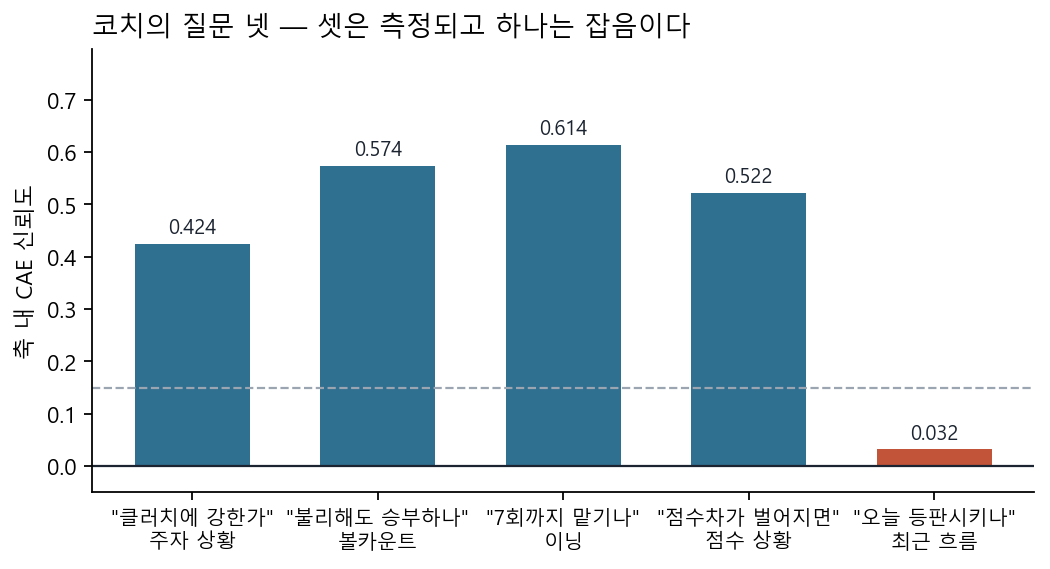
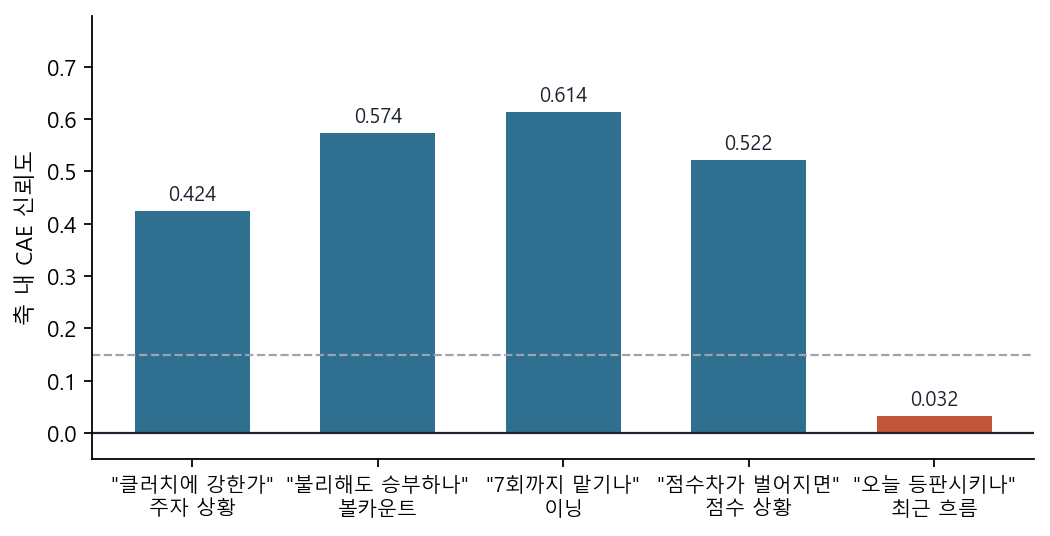
deck: fix a stale cross-reference and three readability snags
14장을 처음부터 끝까지 눈으로 훑고 나온 것들이다.

  3쪽  "이유는 다음 장에 있다" -> 순서를 바꾸면서 다음 장이 파이프라인이 됐다.
       그 이유(홀드아웃을 못 믿는다)는 5쪽이므로 명시적으로 가리킨다
  7쪽  13쪽의 상호참조가 "6쪽" 이었다 -> 7쪽
  10쪽 같은 화면에 폭 숫자가 둘이었다 — 그림 안 38.5(최대-최소),
       캡션 16.6(상위10%-하위10%). 그림 쪽을 캡션과 같은 정의로 통일했다.
       최대-최소는 극단값 두 개에 좌우돼 분포를 대표하지 못한다
  12·13쪽 그림 제목이 슬라이드 헤드라인과 거의 같은 문장이었다 -> 그림 제목 제거
  13쪽 그림이 작아 아래가 크게 비었다 -> 그림 열을 넓혔다
  4쪽  표 첫 열이 좁아 '전처리'/'지시자'가 두 줄로 깨졌다 -> 폭 고정

14장 전부 720px 안에 들어감을 재확인했다.

diff --git a/deck/index.html b/deck/index.html
@@ -158,7 +158,7 @@ addEventListener("DOMContentLoaded",function(){
         <b>상위권 전체가 1% 대의 좁은 띠 안</b>에 들어 있다.
         베이스라인 대비 2.1배를 올렸지만 컷까지는 2.0% 가 모자랐다.<br><br>
         총 <b>48회</b> 제출했고, 모든 채택 판단은 리더보드 실측으로만 했다.
-        홀드아웃 수치로 채택한 적은 한 번도 없다 — 이유는 다음 장에 있다.</p>
+        홀드아웃 수치로 채택한 적은 한 번도 없다 — 이유는 <b>5쪽</b>에 있다.</p>
     </div>
   </div>
   <div class="foot"><span>제구력은 하나의 숫자가 아니다</span><span>3 / 14</span></div>
@@ -171,7 +171,7 @@ addEventListener("DOMContentLoaded",function(){
   <div class="body cols c25" style="margin-top:6px">
     <div>
       <table>
-        <tr><th>단계</th><th>내용</th></tr>
+        <tr><th style="width:78px">단계</th><th>내용</th></tr>
         <tr><td>입력</td><td>train 1,475,092행 x 49컬럼<br>
             <span style="color:var(--mute)">+ 트랙맨 1,793,078행 (투수 매핑 재구축본)</span></td></tr>
         <tr><td>전처리</td><td><span class="num">step1~18</span> 파생 ·
@@ -425,9 +425,8 @@ addEventListener("DOMContentLoaded",function(){
     </div>
     <figure>
       <img src="fig/1_distribution.png" alt="2024 CAE 분포">
-      <figcaption>2024년 100구 이상 투수 297명. 표준편차가 투구 100개당
-        <b>7.0개</b>이고, 상위 10%와 하위 10%의 차이가 <b>16.6개</b>다.
-        기대값은 홀드아웃
+      <figcaption>2024년 100구 이상 투수 297명. 상위 10%와 하위 10%의 차이가
+        투구 100개당 <b>16.6개</b>다. 기대값은 홀드아웃
         (<span class="num">~2023</span> 학습 → <span class="num">2024</span> 예측)
         에서만 만들었다 — 그 시즌을 학습에 넣으면 암기로 분산이 부풀기 때문이다.</figcaption>
     </figure>
@@ -505,8 +504,8 @@ addEventListener("DOMContentLoaded",function(){
 <section class="slide">
   <div class="eyebrow">지표의 두 번째 축</div>
   <h2>“얼마나” 가 아니라 “어떻게” 실패하나</h2>
-  <p class="sub">복원한 라벨(6쪽)을 쓰면 하나의 성공률로는 절대 보이지 않는 것이 나온다.</p>
-  <div class="body cols c25">
+  <p class="sub">복원한 라벨(7쪽)을 쓰면 하나의 성공률로는 절대 보이지 않는 것이 나온다.</p>
+  <div class="body cols c52">
     <figure><img src="fig/5_failure_profile.png" alt="실패 유형 신뢰도"></figure>
     <div>
       <p class="note">

diff --git a/tools/cae_fig.py b/tools/cae_fig.py
@@ -52,8 +52,8 @@ ax.set_xlabel('CAE (투구 100개당 추가 성공 수)')
 ax.set_ylabel('투수 수')
 # 문턱은 100 이다. P24.n.min() 은 실제 최솟값(104)이라 제목에 쓰면 오해를 준다.
 ax.set_title('2024 CAE 분포 — 100구 이상 %d명' % len(P24), loc='left')
-sd = v.std()
-ax.text(.99, .93, '표준편차 %.1f\n상위·하위 폭 %.1f' % (sd, v.max() - v.min()),
+ax.text(.99, .93, '표준편차 %.1f\n상위10%% - 하위10%%  %.1f'
+        % (v.std(), v.quantile(.9) - v.quantile(.1)),
         transform=ax.transAxes, ha='right', va='top', color=MUTE, fontsize=9)
 for s in ('top', 'right'):
     ax.spines[s].set_visible(False)
@@ -142,7 +142,6 @@ ax.set_ylim(min(0, min(vals)) - .05, max(vals) * 1.3)
 for r, v in zip(b, vals):
     ax.text(r.get_x() + r.get_width() / 2, v + .02, '%.3f' % v, ha='center',
             fontsize=9, color=INK)
-ax.set_title('코치의 질문 넷 — 셋은 측정되고 하나는 잡음이다', loc='left')
 for s in ('top', 'right'):
     ax.spines[s].set_visible(False)
 save(fig, '4_coach_questions.png')
@@ -161,7 +160,6 @@ ax.set_xlim(0, 1)
 for r, k in zip(b, ks):
     ax.text(fp[k]['rel'] + .012, r.get_y() + r.get_height() / 2,
             '%.3f' % fp[k]['rel'], va='center', fontsize=9, color=INK)
-ax.set_title('"어떻게 실패하나" — 반대방향이 성공률보다 안정적이다', loc='left')
 for s in ('top', 'right'):
     ax.spines[s].set_visible(False)
 save(fig, '5_failure_profile.png')
